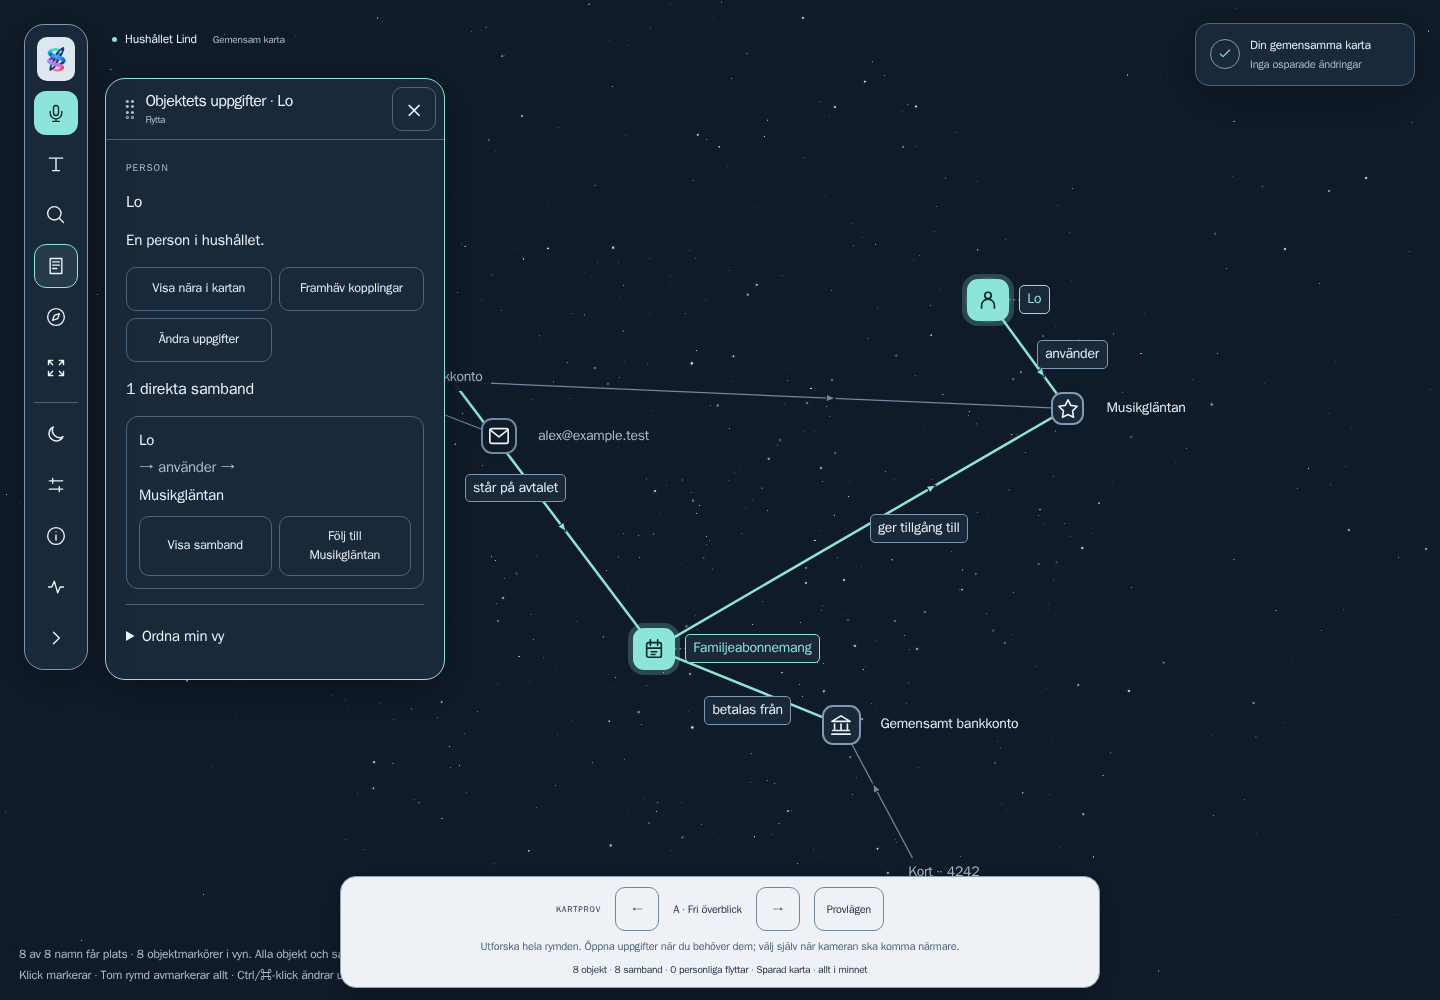
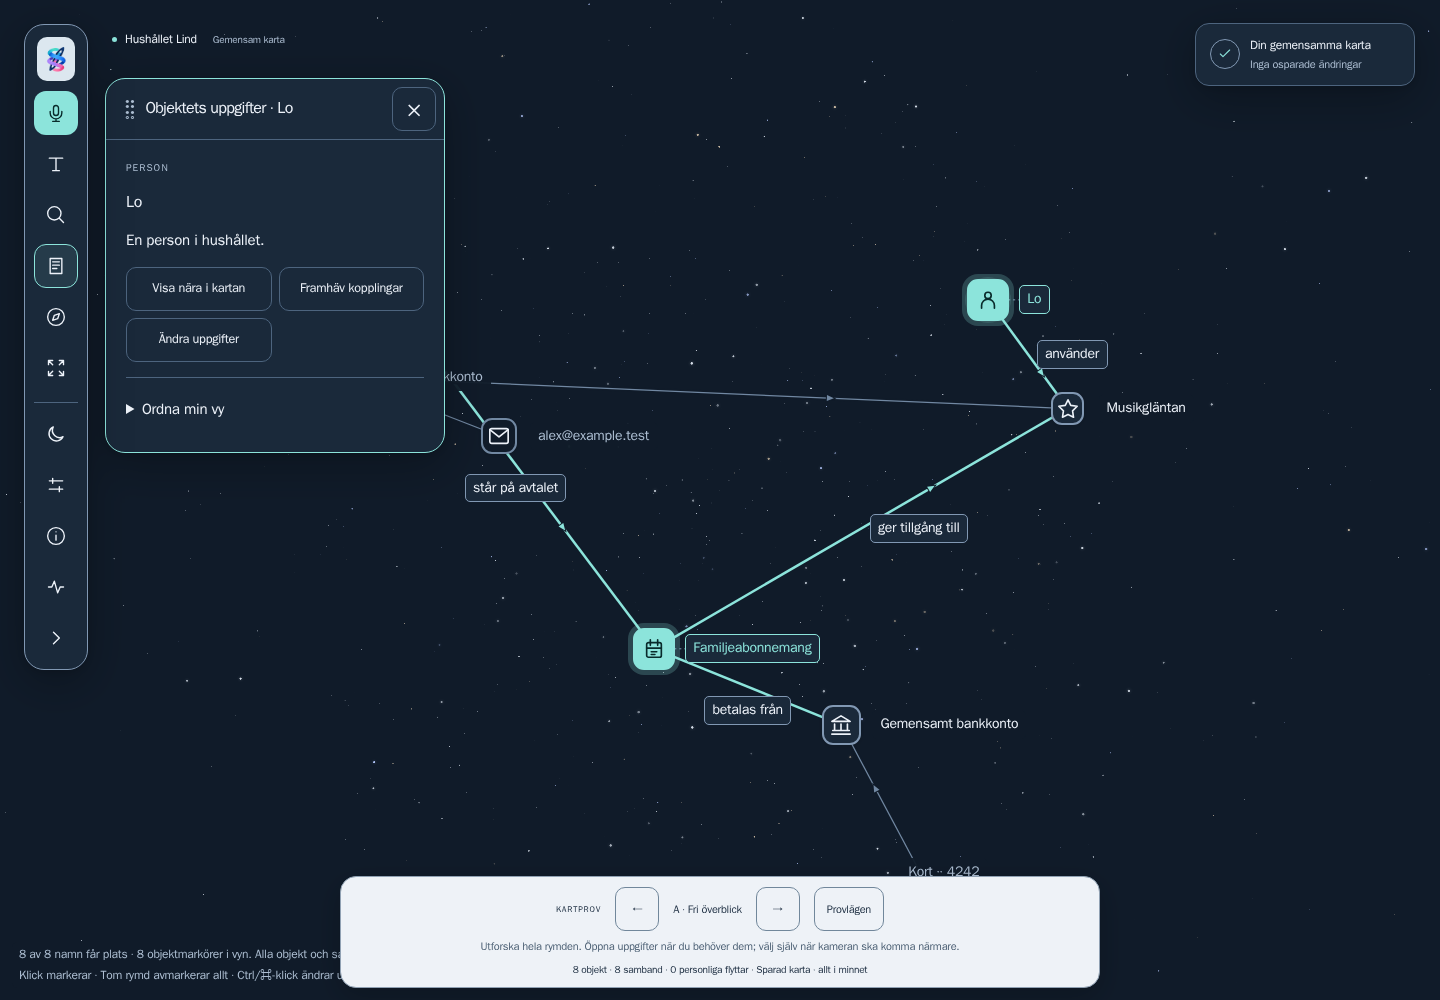
Förenkla objektets detaljvy i kartprototypen

diff --git a/src/client/map-study.css b/src/client/map-study.css
@@ -31,6 +31,9 @@
   top: var(--mp-work-top);
   bottom: var(--mp-work-bottom);
 }
+.np-root.map-study .np-window:has(.mp-details) .np-window-move-label {
+  display: none;
+}
 .np-root.map-study .np-status-panel {
   max-height: calc(100dvh - var(--mp-work-top) - var(--mp-work-bottom));
 }

diff --git a/src/client/MapStudy.tsx b/src/client/MapStudy.tsx
@@ -774,8 +774,6 @@ export function MapStudyPages({
           </button>
         </section>
       )}
-      <h3>{linked.length} direkta samband</h3>
-      {edgeRows(linked)}
       <details className="mp-placement">
         <summary>Ordna min vy</summary>
         <p>

diff --git a/src/client/map-study-assets/README.md b/src/client/map-study-assets/README.md
@@ -89,8 +89,9 @@ förslag. Namn och hjälptext följer ikonens aktuella handling.
 ## Pröva samma uppgifter
 
 1. Klicka på Familjeabonnemang. Objektet och dess samband markeras.
-   Dubbelklicka för detaljer och följ **betalas från** till Gemensamt
-   bankkonto. Ctrl-klicka på flera objekt och dubbelklicka sedan på ett
+   Dubbelklicka för detaljer. Följ **betalas från** i kartan eller genom
+   söklistans **Samband** till Gemensamt bankkonto.
+   Ctrl-klicka på flera objekt och dubbelklicka sedan på ett
    markerat objekt: alla markeringar ska finnas kvar. Jämför med
    Ctrl+Alt-klick, **Visa detaljer** och sökträffar.
 2. Öppna **Provlägen** och välj en tät karta. Befintliga placeringar och
@@ -134,6 +135,11 @@ listan öppen och **Visa detaljer** ger tillgång till uppgifterna.
 Objekt och samband har separata listval, med 50 poster per sida.
 Samband skrivs som källa, riktning, betydelse och mål.
 Kartarbete kräver inte kartgester.
+
+Objektets detaljpanel visar dess uppgifter utan en upprepad lista över
+direkta samband. Sambanden läses i kartan eller i söklistans **Samband**.
+Fönstertiteln saknar den synliga undertiteln **Flytta**; panelen kan
+fortfarande dras och flyttas med tangentbord eller flyttknappar.
 
 **Navigera** ger knappar för panorering, rotation, lutning och zoom.
 Bakgrundsdrag roterar; Skift och dragning panorerar. Kartans piltangenter
